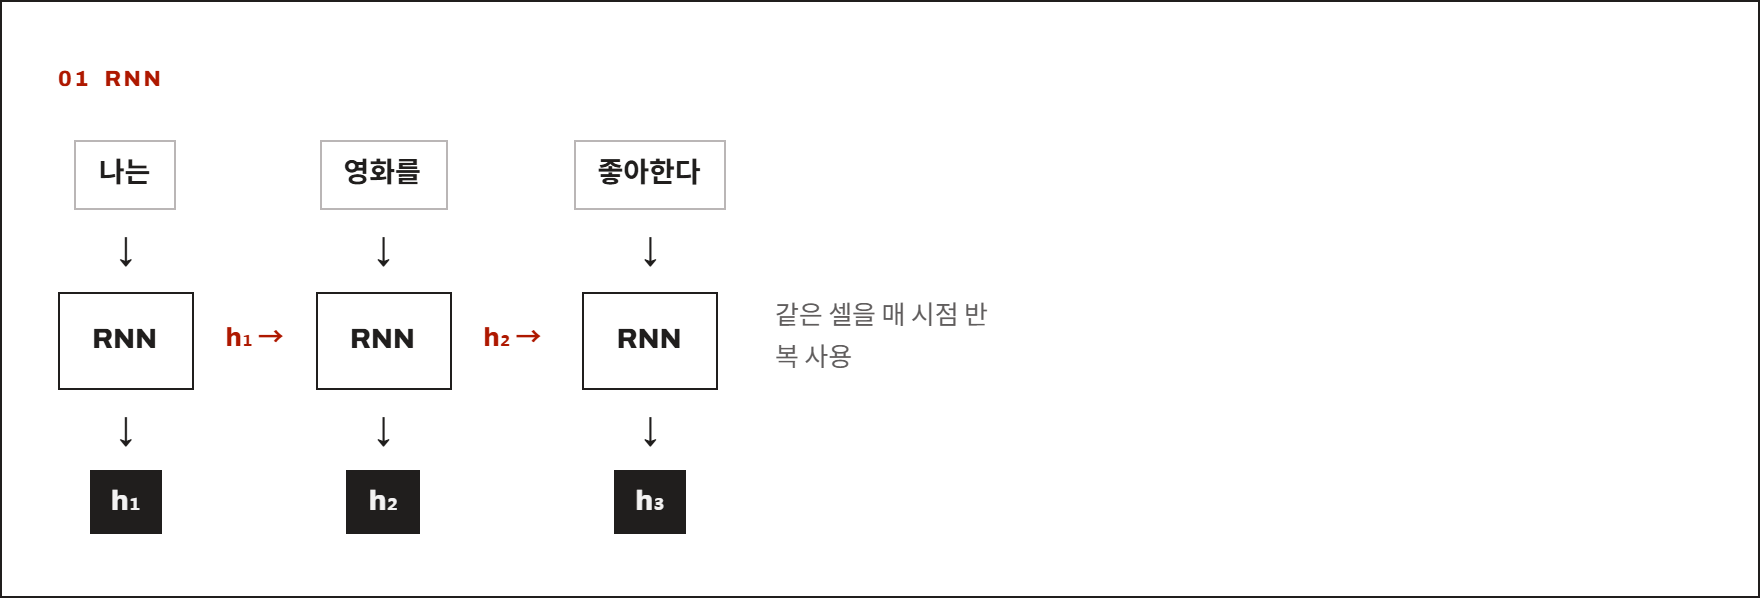
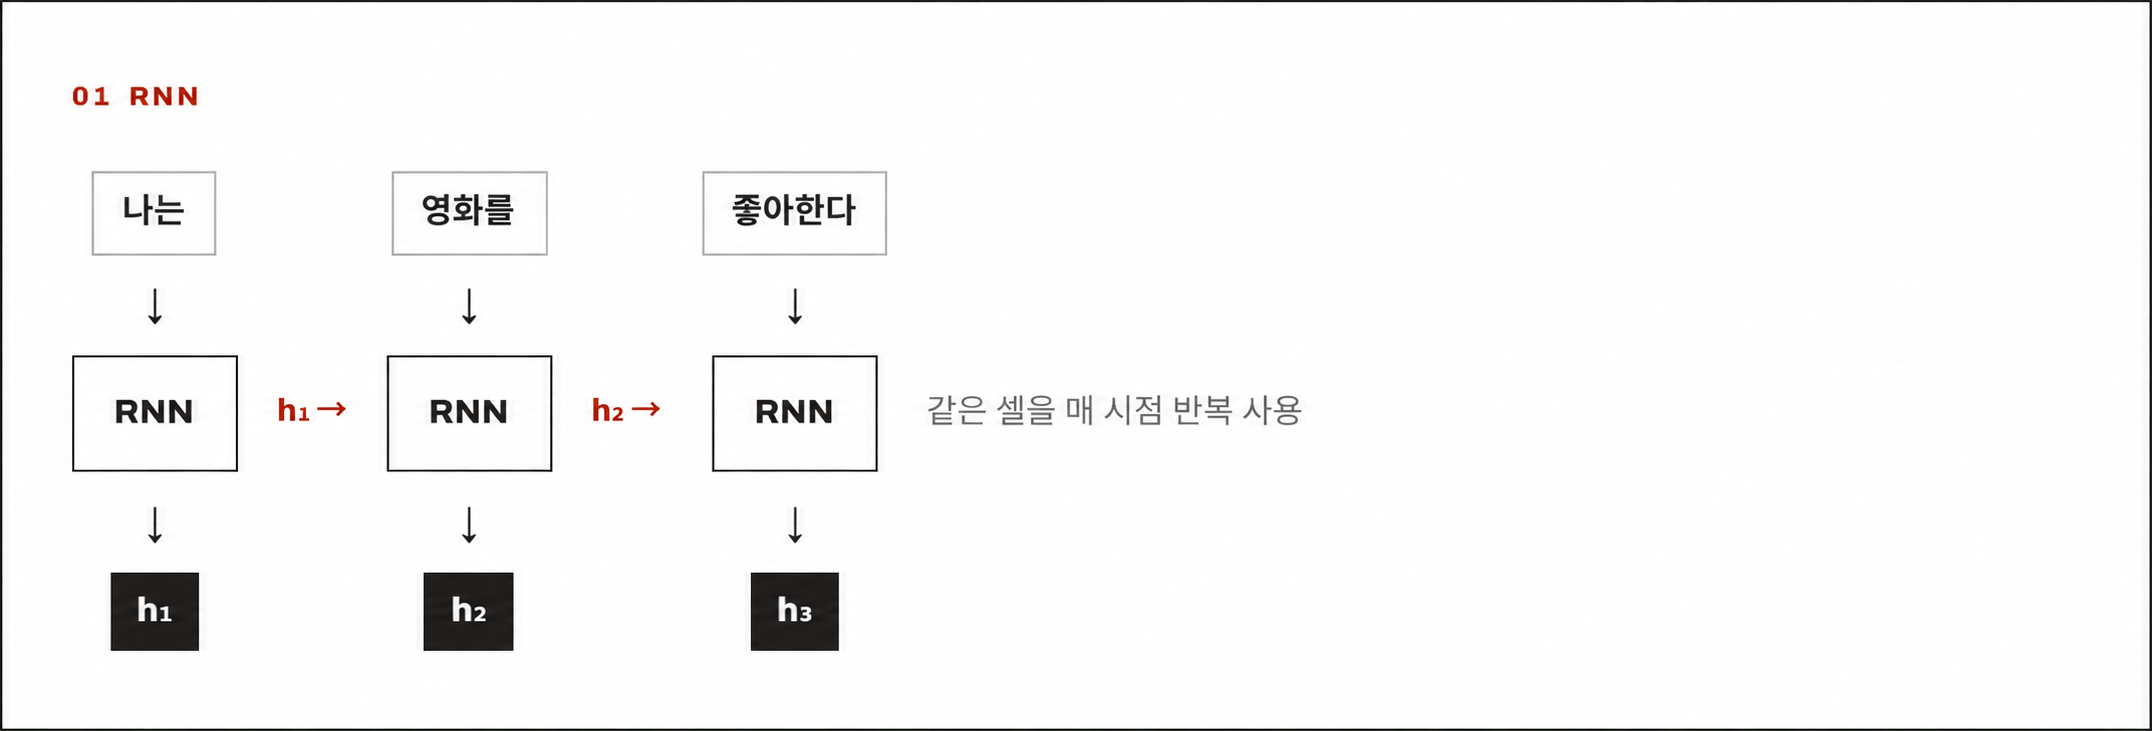
2026-09-11

diff --git a/NLP/다이어그램 (README용).dc.html b/NLP/다이어그램 (README용).dc.html
@@ -64,7 +64,7 @@
         <span style="font-size: 16px;">↓</span>
         <span style="background: var(--color-text); color: var(--color-bg); padding: 5px 11px; font-size: 14px; font-weight: 700;">h₃</span>
       </div>
-      <div style="font-size: 13px; padding-left: 18px; max-width: 17ch; color: var(--color-neutral-700);">같은 셀을 매 시점 반복 사용</div>
+      <div style="font-size: 13px; padding-left: 18px; white-space: nowrap; color: var(--color-neutral-700);">같은 셀을 매 시점 반복 사용</div>
     </div>
   </div>
 
@@ -114,8 +114,11 @@
       </div>
       <div style="display: flex; gap: 12px; align-items: center; padding-left: 16px;">
         <span style="font-size: 18px;">↓</span>
-        <span style="background: var(--color-accent); color: #fff; padding: 7px 12px; font-size: 13px; font-weight: 900;">c = h₄</span>
-        <span style="font-size: 12px; color: var(--color-accent-700); font-weight: 700;">고정 길이 context vector</span>
+        <span style="font-size: 13px; font-weight: 700;">Decoder에 전달하는 상태:</span>
+        <span style="background: var(--color-text); color: var(--color-bg); padding: 7px 12px; font-size: 13px; font-weight: 900;">h₄</span>
+        <span>+</span>
+        <span style="border: 2px dashed var(--color-text); padding: 5px 10px; font-size: 13px; font-weight: 900;">c₄</span>
+        <span style="font-size: 12px;">hidden state + cell state (각각 전달)</span>
       </div>
       <div style="border: 2px solid var(--color-accent); padding: 16px;">
         <div style="font-size: 11px; font-weight: 900; letter-spacing: 0.1em; text-transform: uppercase; margin-bottom: 14px; color: var(--color-accent-700);">Decoder</div>

diff --git a/NLP/README.md b/NLP/README.md
@@ -184,7 +184,9 @@ $$
 
 현재 출력 토큰을 $y_i$라고 할 때, Decoder는 이전 토큰의 임베딩 $E(y_{i-1})$과 이전 상태 $s_{i-1}$로 새 상태를 계산합니다. 여기서는 Encoder와 Decoder의 상태 크기가 같다고 가정하며, 크기나 층 구성이 다르면 변환을 둘 수 있습니다.
 
-그림의 `c = h₄`는 입력 요약(context)을 hidden state 하나로 축약해 표시한 것입니다. 이 c는 LSTM의 cell state 기호와 다른 의미이고, 위 수식은 cell state까지 포함해 전달 상태를 명시했습니다. `<BOS>`는 생성 시작, `<EOS>`는 생성 종료를 나타내는 특수 토큰이며, 첫 입력 $y_0$는 `<BOS>`입니다.
+그림에서는 입력 4토큰을 읽은 뒤의 hidden state $h_4$와 cell state $c_4$를 Decoder의 초기 hidden state와 cell state로 각각 넘깁니다. 그림의 `+`는 두 상태를 모두 전달한다는 뜻이며, 두 벡터를 더하는 연산이 아닙니다. 전달하는 상태 쌍은 $(h_4, c_4)$입니다.
+
+`<BOS>`는 생성 시작, `<EOS>`는 생성 종료를 나타내는 특수 토큰이며, Decoder의 첫 입력 $y_0$는 `<BOS>`입니다.
 
 Decoder는 같은 LSTM을 반복 사용합니다. 아래 표에서는 각 행의 입력으로 새 상태를 계산한 뒤 토큰 하나를 고르고, 그 토큰과 새 상태를 다음 행의 입력으로 넘깁니다.
 
